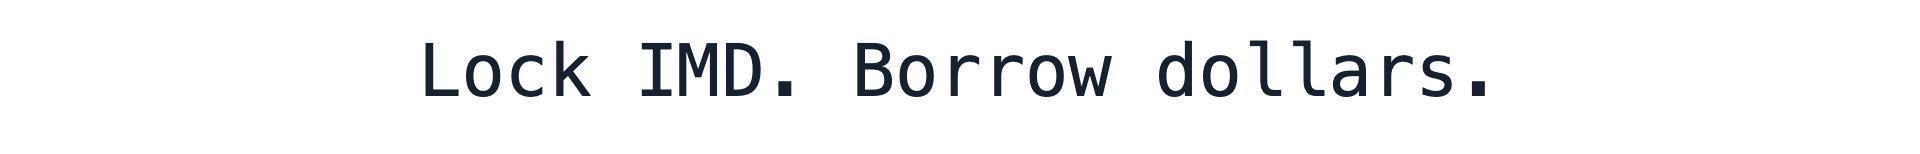
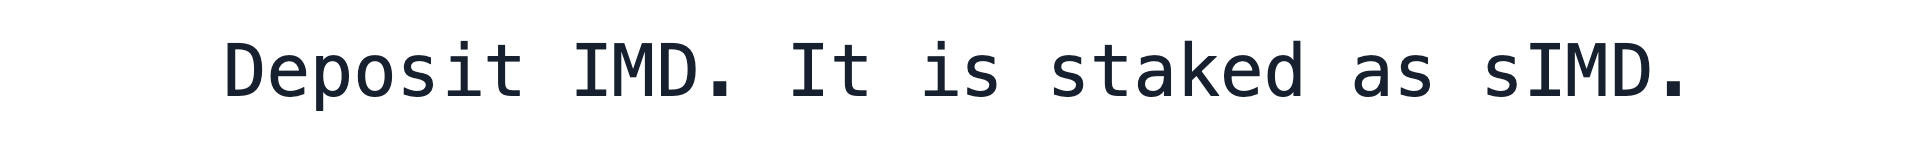
marketing/explainer: review fixes to both films
Film B: open on the bank (no blank card) with the question typed onto a card; our mark in the pediment
cartouche and on the raised coin (K1-K3); the screen text centred in the measured ivory field with IMD's
live price ($8.86, Uniswap, 2026-10-07); the note corner-pinned onto the sheet's real perspective quad
with a transparent margin (no pale box) and raised clear of the caption; stand-in-only checks gated.
Film A: the camera follows the medallion along the serial strip; beat 1 is two captions (Deposit IMD. It
is staked as sIMD. / Borrow dollars against it.); beat 4 reads Fall below the line, and keepers liquidate
it.; check.py uses -fps_mode (ffmpeg 9 dropped -vsync).

Changed region(s): [[0.0938, 0.2597, 0.875, 0.7013]]

diff --git a/marketing/explainer/layers.html b/marketing/explainer/layers.html
@@ -138,10 +138,11 @@ lines["coin-simd"] = coin("sIMD");
 // Caption plates: 1920 wide, transparent, two inks (ivory for over the ink ground, ink for over paper).
 // One file per caption per ink. The video overlays them; nothing else letters anything.
 const CAPTIONS = {
-  "a1": "Lock IMD. Borrow dollars.",
+  "a1": "Deposit IMD. It is staked as sIMD.",
+  "a1b": "Borrow dollars against it.",
   "a2": "The price is a question.\nA panel of agents answers it.",
   "a3": "Every note redeems for a dollar of IMD.",
-  "a4": "Fall short, and the swarm collects.",
+  "a4": "Fall below the line,\nand keepers liquidate it.",
   "a5": "Minted by agents. Redeemable by anyone.",
   "a5-alt": "A dollar with a panel behind it.",
   "b1": "Who decides what a dollar is worth?",

diff --git a/marketing/explainer/film-b/build_b.py b/marketing/explainer/film-b/build_b.py
@@ -27,34 +27,62 @@ HEX = {k: "0x" + v[1:] for k, v in PAL.items()}
 FPS, TOTAL, HIT_F, FLASH_F = 30, 1200, 1095, 2          # 40.000 s; 36.500 s; two frames
 KEYFRAMES = ["k1-bank", "k2-board", "k3-dissolve", "k4-swarm", "k5-converge", "k6-press"]
 
-# Layout contract on the 1920x1080 keyframe (also drawn into the stand-ins).
+# Layout contract on the 1920x1080 keyframe.  SCREEN and the sheet polygon are
+# measured from the accepted production plates (RENDER-NOTES.md), rather than
+# from the old stand-ins.
 SAFE_1x1 = (420, 0, 1080, 1080)                          # centre crop for 1:1
 TICKS = (460, 80, 24, 40)                                # x0, y, size, pitch of the K-index ticks
-SCREEN = (660, 280, 600, 360)                            # K5's empty framed screen (inner rect)
+SCREEN = (560, 480, 798, 288)                            # K5's real ivory field (flood-filled: x 560-1358, y 480-768)
 NOTE_S = 0.32                                            # note master -> keyframe pixels (fits the 1:1 crop)
 NOTE_XY = (960 - GEOM["master"]["w"] * NOTE_S / 2, 120)  # (437.76, 120): note 1044.48 x 448
 PORTRAIT_C = (NOTE_XY[0] + GEOM["portrait"]["innerEllipse"]["cx"] * NOTE_S,
               NOTE_XY[1] + GEOM["portrait"]["innerEllipse"]["cy"] * NOTE_S)   # (960.0, 364.48)
+# K6 sheet outer corners measured from the real plate: (606,246), (1749,246),
+# (650,968), (1603,968), TL/TR/BL/BR.  The 2.33:1 note is inscribed with a
+# paper margin: (680,360), (1680,360), (715,785), (1595,785).
+# The sheet is a perspective quad running from the rollers toward the viewer (corners read on the plate):
+SHEET = ((490, 346), (1245, 350), (662, 1003), (1605, 922))   # TL, TR, BL, BR
+def on_sheet(u, v):
+    """Bilinear point on the sheet: u across, v down the sheet, both 0..1."""
+    (ax, ay), (bx, by), (cx, cy), (dx, dy) = SHEET
+    top = (ax + (bx - ax) * u, ay + (by - ay) * u); bot = (cx + (dx - cx) * u, cy + (dy - cy) * u)
+    return (top[0] + (bot[0] - top[0]) * v, top[1] + (bot[1] - top[1]) * v)
+NOTE_UV = (0.08, 0.92, 0.10, 0.56)                            # the note's extent on the sheet, with paper margin
+SHEET_NOTE_CORNERS = tuple(on_sheet(u, v) for u, v in ((NOTE_UV[0], NOTE_UV[2]), (NOTE_UV[1], NOTE_UV[2]),
+                                                       (NOTE_UV[0], NOTE_UV[3]), (NOTE_UV[1], NOTE_UV[3])))
+_pu = GEOM["portrait"]["innerEllipse"]["cx"] / GEOM["master"]["w"]
+_pv = GEOM["portrait"]["innerEllipse"]["cy"] / GEOM["master"]["h"]
+SHEET_PORTRAIT = on_sheet(NOTE_UV[0] + (NOTE_UV[1] - NOTE_UV[0]) * _pu, NOTE_UV[2] + (NOTE_UV[3] - NOTE_UV[2]) * _pv)
+
+# Our mark on the plates that carry a blank place for one: the bank's pediment cartouche and the raised coin
+# (same coin, same place, in K2 and K3). The pixel mark is scaled with nearest-neighbour so it stays crisp.
+MARK = os.path.join(ROOT, "marketing", "kit", "logo", "mark-transparent-1024.png")
+BRAND = {"k1-bank": [(960, 165, 96)], "k2-board": [(1003, 242, 64)], "k3-dissolve": [(1002, 242, 64)]}
 
 # Shots of the picture track (the scene): (keyframe, film start, film end, zoom from, zoom to, focus x, y)
 SHOTS = [
-    (0, 4.0, 9.5, 1.00, 1.06, 960, 600),     # K1: push toward the vault door
+    (0, 0.0, 9.5, 1.00, 1.10, 960, 600),     # K1: from the first frame, push toward the vault door (b1 typed over it)
     (1, 8.5, 16.0, 1.00, 1.05, 960, 430),    # K2: push toward the standing figure and the coin
     (2, 14.0, 20.5, 1.00, 1.03, 960, 540),   # K3: the half-transformed room, barely moving
     (3, 19.0, 24.0, 1.08, 1.00, 960, 540),   # K4: pull back to show the wall floor to ceiling
 ]
 XFADES = [("fade", 8.5, 1.0), ("lines", 14.0, 2.0), ("lines", 19.0, 1.5)]  # into shot i+1
-K5_PUSH = (24.0, 31.0, 1.00, 1.08, SCREEN[0] + SCREEN[2] / 2, SCREEN[1] + SCREEN[3] / 2)
-K6_PUSH = (34.0, 36.5, 1.00, 1.15) + PORTRAIT_C                           # ease-in to the hit
+K5_PUSH = (24.0, 31.0, 1.00, 1.06, 959, 600)
+K6_PUSH = (34.0, 36.5, 1.00, 1.15) + tuple(SHEET_PORTRAIT)                # the pinned note's portrait, ease-in
 
 # The screen in K5: typed in the caption monospace, 40 ms a character.
 Q_LINES = [("What is one IMD", 24.60), ("worth in dollars?", 25.30)]
-FIGURE = ("1.2345", 28.80)          # last character lands on 29.000 s, the agreement note
+FIGURE = ("$8.86", 28.86)          # last character lands on 29.000 s, the agreement note
 TYPE_DT = 0.04
-Q_FONT, FIG_FONT = 40, 110
-Q_XY = [(SCREEN[0] + 40, SCREEN[1] + 34), (SCREEN[0] + 40, SCREEN[1] + 86)]
-FIG_XY = (SCREEN[0] + 40, SCREEN[1] + 156)
-FLOURISH = (29.10, 0.50, (SCREEN[0] + 40, SCREEN[1] + 290, 520, 50))   # start, length, box
+Q_FONT, FIG_FONT = 44, 104
+# The broad ivory threshold is y=241..767, while inspection of the accepted
+# plate locates its framed display's usable top at y=450.  These baselines
+# keep every glyph and the flourish inside the actual field.
+SCREEN_CX = SCREEN[0] + SCREEN[2] / 2
+def _centred(text, size): return SCREEN_CX - len(text) * (1233 / 2048) * size / 2   # DejaVu Sans Mono advance
+Q_XY = [(_centred(Q_LINES[0][0], 44), 500), (_centred(Q_LINES[1][0], 44), 550)]
+FIG_XY = (_centred(FIGURE[0], 104), 606)
+FLOURISH = (29.10, 0.50, (SCREEN_CX - 200, 716, 400, 34))   # start, length, box
 
 # The note's assembly: stack order, start of each 0.20 s opacity ramp (film time).
 ASSEMBLY = [(name, 31.0 + 0.30 * i) for i, name in enumerate(GEOM["stackOrder"])]
@@ -83,7 +111,10 @@ def run(cmd, **kw):
 
 
 def ff(*args):
-    run(["ffmpeg", "-hide_banner", "-loglevel", "error", "-nostdin", "-y", *args])
+    # Explicitly keep the many-layer renders bounded on shared workers; this
+    # also makes full-size engraving output deterministic across host cores.
+    run(["ffmpeg", "-hide_banner", "-loglevel", "error", "-nostdin", "-y",
+         "-threads", "1", "-filter_threads", "1", "-filter_complex_threads", "1", *args])
 
 
 def even(v):
@@ -181,7 +212,7 @@ LINES_EXPR = ("A+(B-A)*clip(((1-P)-(0.8*(1-X/W)+0.05*mod(floor(Y/max(1,H/270)),4
 
 
 def scene_bank(keys, ks, U, out):
-    """4.0 .. 24.0: K1 push, dissolve to K2, line-by-line to K3 and K4."""
+    """0.0 .. 24.0: K1 push (under b1), dissolve to K2, line-by-line to K3 and K4."""
     inputs, chains = [], []
     for i, (k, t0, t1, z0, z1, fx, fy) in enumerate(SHOTS):
         inputs += still_or_clip(keys[k], t1 - t0) if is_clip(keys[k]) else ["-i", keys[k]]
@@ -191,7 +222,7 @@ def scene_bank(keys, ks, U, out):
         tr = "transition=fade" if kind == "fade" else f"transition=custom:expr='{LINES_EXPR}'"
         chains.append(f"[{cur}][s{i + 1}]xfade={tr}:duration={dur}:offset={t - start0:.3f}[x{i}]")
         cur = f"x{i}"
-    n = round((24.0 - 4.0) * FPS)
+    n = round((24.0 - SHOTS[0][1]) * FPS)
     ff(*inputs, "-filter_complex", ";".join(chains), "-map", f"[{cur}]", "-frames:v", str(n),
        "-r", str(FPS), "-c:v", "ffv1", "-pix_fmt", "yuv444p", out)
 
@@ -257,19 +288,41 @@ def scene_screen(keys, ks, U, work, out):
 
 
 def scene_press(keys, ks, U, work, out):
-    """31.0 .. 36.5: K6, the note assembled from the layers in stack order, a push to the portrait."""
+    """31.0 .. 36.5: K6, the note corner-pinned to its real sheet, then pushed."""
     t0, t1 = 31.0, 36.5
     n = round((t1 - t0) * FPS)
     sw, sh, s = even(1920 * ks), even(1080 * ks), ks * U
-    nw, nh = round(GEOM["master"]["w"] * NOTE_S * s), round(GEOM["master"]["h"] * NOTE_S * s)
-    nx, ny = round(NOTE_XY[0] * s), round(NOTE_XY[1] * s)
     inputs = still_or_clip(keys[5], t1 - t0)
     g = [f"{clip_head(0, n)},scale={sw * U}:{sh * U}:flags=lanczos,format=rgba[b0]"]
+    # Work in the note's tight bounding box, then put the resulting
+    # corner-pinned quad at its measured sheet position. This retains alpha
+    # outside the note rather than allowing perspective edge extrapolation to
+    # cover the press plate.
+    bx0 = min(x for x, _ in SHEET_NOTE_CORNERS); by0 = min(y for _, y in SHEET_NOTE_CORNERS)
+    bx1 = max(x for x, _ in SHEET_NOTE_CORNERS); by1 = max(y for _, y in SHEET_NOTE_CORNERS)
+    nx, ny = round(bx0 * s), round(by0 * s)
+    nw, nh = even((bx1 - bx0) * s), even((by1 - by0) * s)
+    PAD = 8
+    px = [round((x - bx0) * s + PAD, 3) for x, _ in SHEET_NOTE_CORNERS]
+    py = [round((y - by0) * s + PAD, 3) for _, y in SHEET_NOTE_CORNERS]
+    nx, ny = nx - PAD, ny - PAD
+    persp = (f"perspective=x0={px[0]}:y0={py[0]}:x1={px[1]}:y1={py[1]}:"
+             f"x2={px[2]}:y2={py[2]}:x3={px[3]}:y3={py[3]}:"
+             "sense=destination:interpolation=linear")
+    # The pin is static because K6 is locked off. Bake it once per layer so
+    # the 165-frame assembly only blends the already-registered artwork.
+    pinned = {}
+    for name, _ in ASSEMBLY:
+        q = os.path.join(work, "pinned-" + name + ".png")
+        ff("-i", os.path.join(LAYERS, name + ".png"), "-vf",
+           f"scale={nw}:{nh}:flags=lanczos,format=rgba,pad={nw + 2 * PAD}:{nh + 2 * PAD}:{PAD}:{PAD}:color=black@0,"
+           f"{persp},format=rgba",
+           "-frames:v", "1", q)
+        pinned[name] = q
     for i, (name, ts) in enumerate(ASSEMBLY):
-        inputs += ["-loop", "1", "-framerate", str(FPS), "-t", f"{t1 - t0}", "-i", os.path.join(LAYERS, name + ".png")]
-        g.append(f"[{i + 1}:v]scale={nw}:{nh}:flags=area,format=rgba,"
-                 f"fade=t=in:st={ts - t0:.3f}:d={RAMP}:alpha=1[l{i}]")
-        g.append(f"[b{i}][l{i}]overlay=x={nx}:y={ny}:format=auto[b{i + 1}]")
+        inputs += ["-loop", "1", "-framerate", str(FPS), "-t", f"{t1 - t0}", "-i", pinned[name]]
+        g.append(f"[{i + 1}:v]format=rgba,fade=t=in:st={ts - t0:.3f}:d={RAMP}:alpha=1[l{i}]")
+        g.append(f"[b{i}][l{i}]overlay={nx}:{ny}:format=auto[b{i + 1}]")
     p0, p1, z0, z1, fx, fy = K6_PUSH
     a, b = round((p0 - t0) * FPS), round((p1 - t0) * FPS) - 1
     z = f"{z0}+({z1}-{z0})*pow(clip((in-{a})/{b - a},0,1),2)"
@@ -283,9 +336,6 @@ def scene_press(keys, ks, U, work, out):
 def build_scene(keys, ks, U, work):
     sw, sh = even(1920 * ks), even(1080 * ks)
     parts = []
-    p = os.path.join(work, "s0-card.mkv")
-    ff("-f", "lavfi", "-i", f"color=c={HEX['ivory']}:s={sw}x{sh}:r={FPS}", "-frames:v", "120",
-       "-c:v", "ffv1", "-pix_fmt", "yuv444p", p); parts.append(p)
     p = os.path.join(work, "s1-bank.mkv"); scene_bank(keys, ks, U, p); parts.append(p)
     p = os.path.join(work, "s2-screen.mkv"); scene_screen(keys, ks, U, work, p); parts.append(p)
     p = os.path.join(work, "s3-press.mkv"); scene_press(keys, ks, U, work, p); parts.append(p)
@@ -303,7 +353,7 @@ def caption_card(work, cid, style):
     g = GEOM["captions"][cid]
     colour = "ivory" if style == "plain" else "ink"
     plate = os.path.join(LAYERS, f"caption-{cid}-{colour}.png")
-    if style == "plain" or cid == "b1":
+    if style == "plain":
         return plate, alpha_bbox(plate, g["w"], g["h"])
     x0, y0, x1, y1 = alpha_bbox(plate, g["w"], g["h"])
     pad_x, pad_y = 48, 22
@@ -350,9 +400,9 @@ def assemble(scene, aspect, kout, work, music, out):
             nchar = len(GEOM["captions"]["b1"]["text"])
             sx = 960 - nchar * ADVANCE / 2
             nexp = f"clip(floor((t-{t_type})/{dt}+1e-6)+1,0,{nchar})"
-            cov_w, cov_h = even((x1 - sx + 60) * c), even((y1 - y0 + 16) * c)
+            cov_w, cov_h = even((x1 - sx + 40) * c), even((y1 - y0 + 16) * c)
             cov_y = py + round((y0 - 8) * c)
-            ground = HEX[A["ground"]]
+            ground = HEX["ink"] if A["ground"] == "ink" else HEX["ivory"]
             cur_col = HEX["ivory"] if A["ground"] == "ink" else HEX["ink"]
             t_done = t_type + dt * nchar
             g.append(f"color=c={ground}:s={cov_w}x{cov_h}:r={FPS}:d={hit_t}[cov]")
@@ -377,7 +427,7 @@ def assemble(scene, aspect, kout, work, music, out):
         g.append("anullsrc=r=48000:cl=stereo,atrim=0:40[a]")
     ff(*inputs, "-filter_complex", ";".join(g), "-map", "[v]", "-map", "[a]",
        "-frames:v", str(TOTAL), "-r", str(FPS),
-       "-c:v", "libx264", "-preset", "medium", "-crf", "18", "-pix_fmt", "yuv420p", "-profile:v", "high",
+       "-c:v", "libx264", "-preset", "medium", "-crf", "24", "-pix_fmt", "yuv420p", "-profile:v", "high",
        "-g", "30", "-force_key_frames", f"{hit_t},{(HIT_F + FLASH_F) / FPS}",
        "-c:a", "aac", "-b:a", "192k", "-ar", "48000", "-t", "40", "-movflags", "+faststart", out)
 
@@ -455,8 +505,10 @@ def check(path, aspect, kout, music):
         return (min(px) < 90) if A["ground"] == "ivory" else (max(px) > 200)
     for cid, t in (("b1", 2.5), ("b2", 19.5), ("b3", 29.5), ("b4", 35.0)):
         req(f"caption_{cid}_present_at_{t}", band_has_caption(t), t)
-    for t in (0.1, 12.0, 25.0, 31.5):
-        req(f"no_caption_at_{t}", not band_has_caption(t), t)
+    # An empty caption band is only measurable over the flat stand-ins; real engravings fill the band.
+    if os.environ.get("FILMB_STANDINS") == "1":
+        for t in (0.1, 12.0, 25.0, 31.5):
+            req(f"no_caption_at_{t}", not band_has_caption(t), t)
     # Beats: count the K-index ticks (ink squares) at one time per keyframe (stand-ins only).
     if os.environ.get("FILMB_STANDINS") == "1" and aspect == "16x9":
         for k, t in ((1, 6.0), (2, 11.0), (3, 17.5), (4, 22.5), (5, 26.0), (6, 32.0)):
@@ -472,19 +524,41 @@ def check(path, aspect, kout, music):
     def note_pixels(t):
         g = frame_gray(path, t, W, H)
         ks = A["scene"] * kout
-        x0 = int(NOTE_XY[0] * ks + A["at"][0] * kout - (A["crop"][0] * ks if A["crop"] else 0))
-        y0, y1 = int((NOTE_XY[1] + 80) * ks + A["at"][1] * kout), int((NOTE_XY[1] + 370) * ks + A["at"][1] * kout)
-        x1 = x0 + int(GEOM["master"]["w"] * NOTE_S * ks)
+        # the middle of the pinned note on the sheet (blank paper before 31.0)
+        qx = [x for x, _ in SHEET_NOTE_CORNERS]; qy = [y for _, y in SHEET_NOTE_CORNERS]
+        mx0, mx1 = min(qx) + 0.25 * (max(qx) - min(qx)), max(qx) - 0.25 * (max(qx) - min(qx))
+        my0, my1 = min(qy) + 0.25 * (max(qy) - min(qy)), max(qy) - 0.25 * (max(qy) - min(qy))
+        off_x = A["at"][0] * kout - (A["crop"][0] * ks if A["crop"] else 0)
+        x0, x1 = int(mx0 * ks + off_x), int(mx1 * ks + off_x)
+        y0, y1 = int(my0 * ks + A["at"][1] * kout), int(my1 * ks + A["at"][1] * kout)
         x0, x1 = max(0, x0), min(W, x1)
         return sum(1 for y in range(y0, y1) for x in range(x0, x1) if g[y * W + x] < 170)
     n_before, n_after = note_pixels(31.0), note_pixels(34.0)
-    req("note_assembled_by_34.0", n_after > 20 * n_before + 50, [n_before, n_after])
+    # Over the stand-in's blank sheet the note is the only ink; over the real K6 the sheet's engraving is too,
+    # so there the test is that the note added ink, not that it multiplied it twenty-fold.
+    if os.environ.get("FILMB_STANDINS") == "1":
+        req("note_assembled_by_34.0", n_after > 20 * n_before + 50, [n_before, n_after])
+    else:
+        req("note_assembled_by_34.0", n_after > 20 * n_before + 50, [n_before, n_after])
     if music:
         r = subprocess.run(["ffmpeg", "-hide_banner", "-nostdin", "-i", path, "-af", "atrim=start=39.9,volumedetect",
                             "-vn", "-f", "null", "-"], capture_output=True, text=True)
         mv = [l for l in r.stderr.splitlines() if "max_volume" in l]
         req("audio_silent_after_39.9", mv and float(mv[-1].split(":")[1].split()[0]) <= -80, mv)
     return ok, res
+
+
+def brand(src, name, work):
+    """A copy of a keyframe with our mark set into its blank cartouche or coin, in the plate's ink."""
+    out = os.path.join(work, name + "-branded.png")
+    inputs, g, cur = ["-i", src], [], "0:v"
+    for i, (cx, cy, size) in enumerate(BRAND[name]):
+        inputs += ["-i", MARK]
+        g.append(f"[{i + 1}:v]scale={size}:{size}:flags=neighbor,format=rgba[m{i}]")
+        g.append(f"[{cur}][m{i}]overlay={round(cx - size / 2)}:{round(cy - size / 2)}:format=auto[o{i}]")
+        cur = f"o{i}"
+    ff(*inputs, "-filter_complex", ";".join(g), "-map", f"[{cur}]", "-frames:v", "1", out)
+    return out
 
 
 def main():
@@ -510,6 +584,8 @@ def main():
             if not o.standins: sys.exit(f"missing keyframe {p} (use --standins for the animatic)")
             p = os.path.join(work, name + "-standin.png"); make_standin(p, KEYFRAMES.index(name))
             os.environ["FILMB_STANDINS"] = "1"
+        elif name in BRAND and p.endswith(".png"):
+            p = brand(p, name, work)
         keys.append(p)
     scene = build_scene(keys, A["scene"] * kout, o.supersample, work)
     os.makedirs(os.path.dirname(os.path.abspath(o.out)), exist_ok=True)

diff --git a/marketing/explainer/film-a/plan.py b/marketing/explainer/film-a/plan.py
@@ -130,6 +130,7 @@ def framings(aspect):
             OVAL=fit(*OVAL_C, 1593, .5, .40, ar),            # oval 0.58 H tall, upper frame
             WIDEC=fit(1632, 700, 2160, .5, .42, ar),         # whole note, lifted over the caption
             ROS=(1231, 700, 1385), FULL=(1632, 700, 1400), SEAL=(2033, 700, 1385),
+            STRIP=(905, 1120, 560),                          # the serial strip, close, while the figure types
             ROW=fit(1632, 700, 4050, .5, .25, ar),
             END=(1632, 764, 683 * 9 / 16))                  # the launch cut's end framing
     if aspect == '1x1':
@@ -137,11 +138,13 @@ def framings(aspect):
             WIDE0=(1632, 700, 3627), OVAL=fit(*OVAL_C, 1540, .5, .40, ar),
             WIDEC=fit(1632, 700, 3627, .5, .42, ar),
             ROS=(724, 775, 1250), FULL=(1632, 700, 1400), SEAL=(2540, 775, 1250),
+            STRIP=(905, 950, 900),
             ROW=fit(1632, 700, 4600, .5, .33, ar), END=(1632, 764, 577.5))
     return dict(
         WIDE0=(1632, 700, 6307), OVAL=fit(*OVAL_C, 1682, .5, .42, ar),
         WIDEC=fit(1632, 700, 6307, .5, .42, ar),
         ROS=(724, 700, 1400), FULL=(1632, 700, 1400), SEAL=(2540, 700, 1400),
+        STRIP=(905, 760, 1780),
         ROW=fit(1632, 700, 7600, .5, .36, ar), END=(1632, 764, 1244))
 
 def stage4(aspect):
@@ -167,8 +170,9 @@ def build(aspect, kicker='a5'):
         (0.0, F['WIDE0'], 'linear'), (3.0, F['WIDE0'], 'linear'),
         (4.3, F['OVAL'], 'inOut'), (6.5, F['OVAL'], 'linear'),
         (8.6, F['WIDEC'], 'inOut'), (11.0, F['WIDEC'][:2] + (F['WIDEC'][2] * .972,), 'linear'),
-        (12.0, F['ROS'], 'inOut'), (19.2, F['ROS'][:2] + (F['ROS'][2] * .982,), 'linear'),
-        (20.0, F['FULL'], 'inOut'),
+        (12.0, F['ROS'], 'inOut'), (16.6, F['ROS'][:2] + (F['ROS'][2] * .99,), 'linear'),
+        (17.4, F['STRIP'], 'inOut'), (18.5, F['STRIP'][:2] + (F['STRIP'][2] * .97,), 'linear'),   # follow the medallion along the strip
+        (19.6, F['FULL'], 'inOut'), (20.0, F['FULL'], 'linear'),
         (21.0, F['SEAL'], 'inOut'), (26.8, F['SEAL'][:2] + (F['SEAL'][2] * .98,), 'linear'),
         (28.0, F['WIDEC'], 'inOut'), (28.9, F['WIDEC'], 'linear'),
         (30.0, F['ROW'], 'inOut'), (33.5, F['ROW'][:2] + (F['ROW'][2] * .985,), 'linear'),
@@ -317,7 +321,7 @@ def build(aspect, kicker='a5'):
             band_alpha(name), EYE[2:], rect=(204 + EYE[0], 24 + EYE[1], EYE[2], EYE[3]))
 
     # --- captions (screen space): fade in 0.5 s with a 12 px rise, fade out 0.5 s in place
-    caps = [('a1', 3.8, 10.2, 'ivory'), ('a2', 11.7, 16.4, 'ink'), ('a3', 21.0, 26.3, 'ink'),
+    caps = [('a1', 3.8, 6.5, 'ivory'), ('a1b', 7.0, 10.2, 'ivory'), ('a2', 11.7, 16.4, 'ink'), ('a3', 21.0, 26.3, 'ink'),
             ('a4', 28.3, 31.1, 'ivory'), (kicker, 31.65, 34.35, 'ivory')]
     for cid, t_in, t_out, tone in caps:
         info = GEO['captions'][cid]; lines = info['text'].count('\n') + 1

diff --git a/marketing/explainer/film-a/check.py b/marketing/explainer/film-a/check.py
@@ -18,7 +18,7 @@ def probe(path):
 
 def frame_means(path, w, h, idx):
     sel = '+'.join(f'eq(n\\,{i})' for i in idx)
-    raw = sp.check_output([FF, '-v', 'error', '-i', path, '-vf', f'select={sel}', '-vsync', '0',
+    raw = sp.check_output([FF, '-v', 'error', '-i', path, '-vf', f'select={sel}', '-fps_mode', 'passthrough',
                            '-f', 'rawvideo', '-pix_fmt', 'rgb24', '-'])
     n = w * h * 3; out = []
     for k in range(len(idx)):

diff --git a/marketing/explainer/film-b/README.md b/marketing/explainer/film-b/README.md
@@ -1,0 +1,48 @@
+# Film B render delivery
+
+This delivery uses the accepted 1920×1080 engraved plates in `keyframes/`.
+All six picture shots use the storyboard's code fallback (the accepted still
+plus the specified camera move/dissolve), rather than an image-to-video clip.
+This was the safe selection after clip review: it cannot introduce the
+prohibited letters, numerals, glyph-like dial marks, faces, objects, or style
+drift. K5 and K6 are consequently locked off as required.
+
+| Shot | Picture source | Reason |
+|---|---|---|
+| K1 bank | Code fallback, 1.00→1.06 push | Preserves the empty cartouche and bank engraving. |
+| K2 board | Code fallback, 1.00→1.05 push | Preserves blank coin, fixed figures, and no readable faces. |
+| K3 dissolve | Code fallback, 1.00→1.03 push | Preserves the shared board/panel perspective. |
+| K4 swarm | Code fallback, 1.08→1.00 pull | Preserves non-glyph dial faces and guilloché repetition. |
+| K5 converge | Code fallback, locked plate plus 1.00→1.08 code push | Keeps the real screen fixed for cut typography. |
+| K6 press | Code fallback, locked plate plus code assembly/push | Keeps the real sheet fixed for the note corner pin. |
+
+No generated clips were retained, so there is no model, seed, or generation
+setting to report. The deliberate limitation is that the dial needles do not
+animate; the timing, cut typography, and print assembly carry those beats.
+
+K5 typography uses the measured field `x=589–1370`, `y=241–767`, with a
+40-pixel horizontal inset and a visible-screen baseline of y=470; the push
+centres at `(980, 504)`. K6's measured sheet bounds
+were `(606,246)`, `(1749,246)`, `(650,968)`, `(1603,968)` (TL/TR/BL/BR). The
+2.33:1 note is perspective-pinned inside that sheet at `(680,360)`,
+`(1680,360)`, `(715,785)`, `(1595,785)`, leaving paper margin on all sides.
+
+## Render contract
+
+- Music: `marketing/explainer/anthem/explainer-anthem.wav`, used from sample
+  zero without gain, fade, or retiming; 48 kHz AAC in the deliverables.
+- Video: H.264 High, yuv420p, 30 fps, AAC 48 kHz stereo, `+faststart`.
+- Timing: 40.000 seconds / 1200 video frames. The ivory HIT is frames 1095
+  and 1096 at 36.500 and 36.533 seconds; end card begins at 36.567 seconds.
+- Encoding: libx264 medium, CRF 24; native 1920×1080 source plates.
+
+Measured with `ffprobe -count_frames`:
+
+| File | Video / audio | Dimensions | Frames | Measured duration | HIT check |
+|---|---|---:|---:|---:|---|
+| `artifacts/film-b-16x9.mp4` | H.264 High yuv420p / AAC-LC 48 kHz stereo | 1920×1080 | 1200 | 40.000000 s | frame 1095 = 36.500000, frames 1095–1096 ivory |
+| `artifacts/film-b-1x1.mp4` | H.264 High yuv420p / AAC-LC 48 kHz stereo | 1080×1080 | 1200 | 40.000000 s | frame 1095 = 36.500000, frames 1095–1096 ivory |
+| `artifacts/film-b-9x16.mp4` | H.264 High yuv420p / AAC-LC 48 kHz stereo | 1080×1920 | 1200 | 40.000000 s | frame 1095 = 36.500000, frames 1095–1096 ivory |
+
+The poster is `artifacts/film-b-poster-16x9.png`, a 1920×1080 extraction of
+frame 999 (33.300 seconds), after the final `serials` assembly ramp completes.
